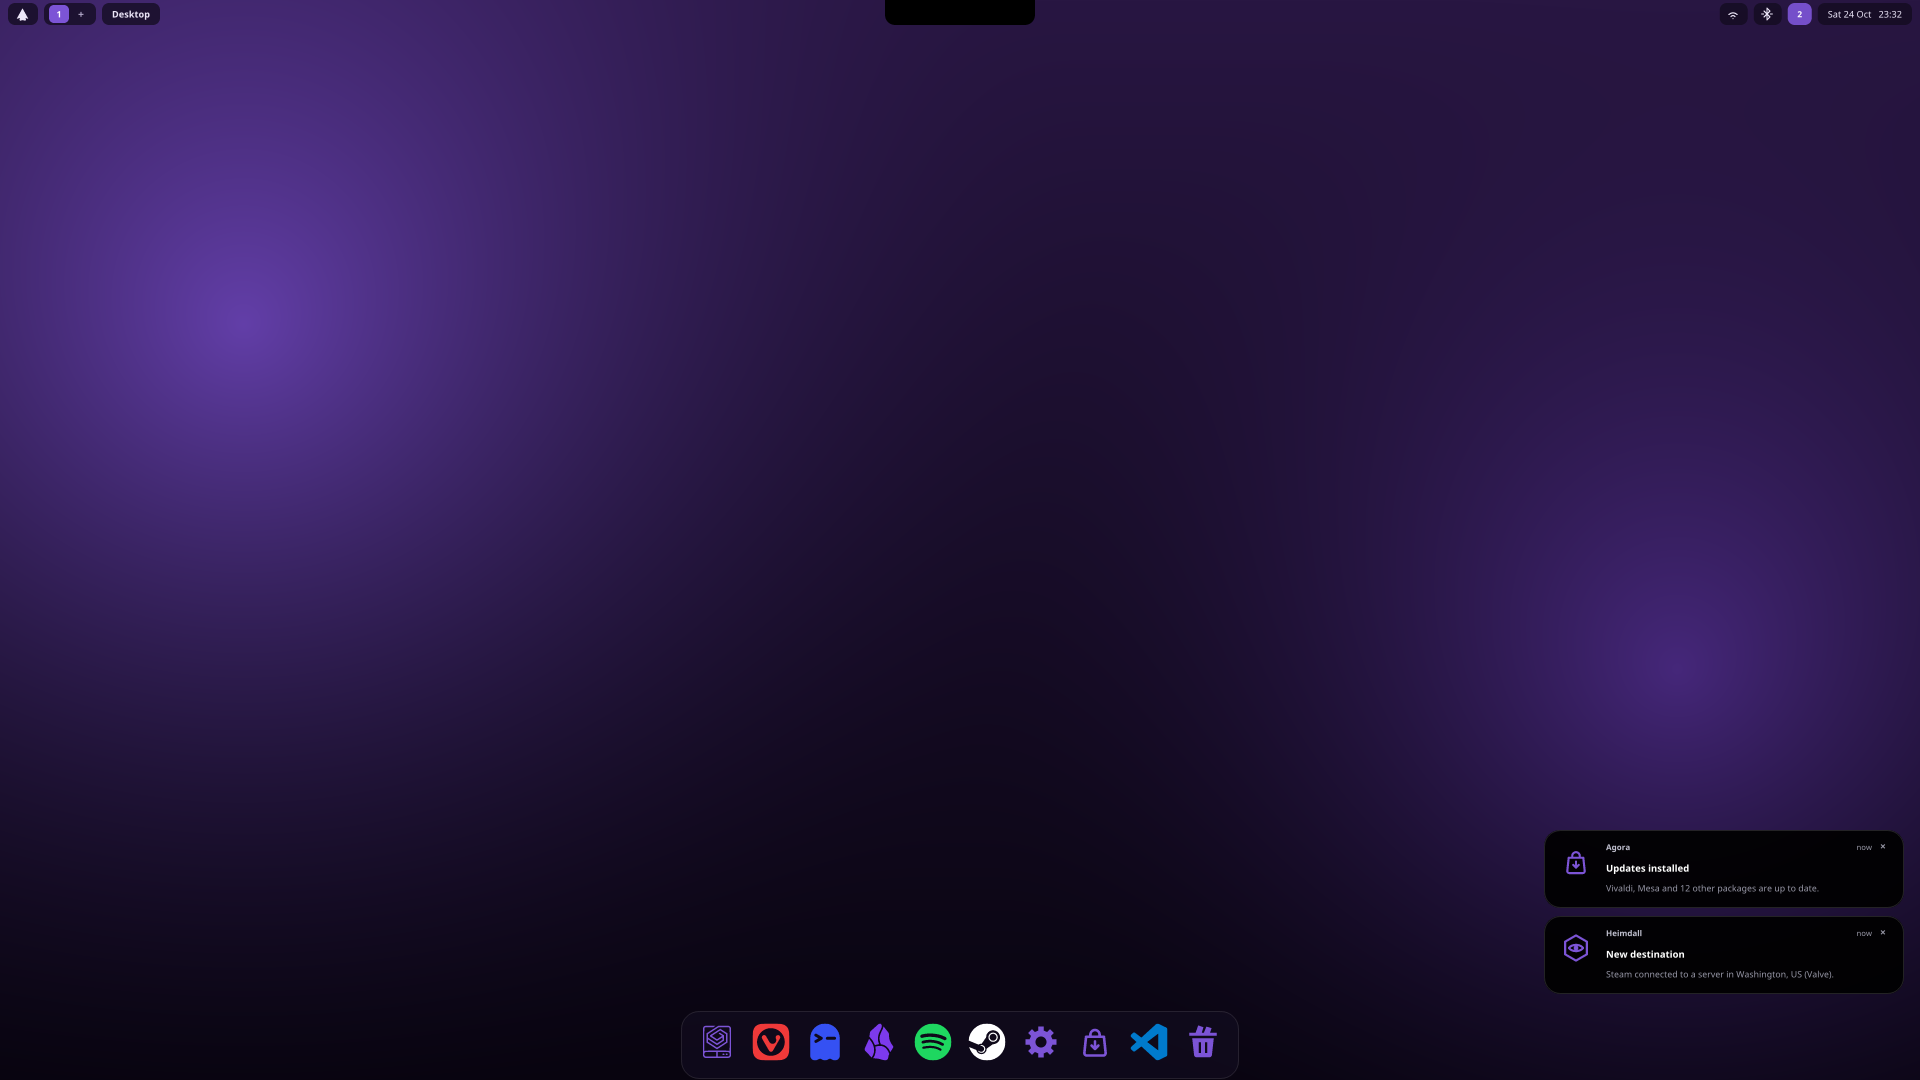
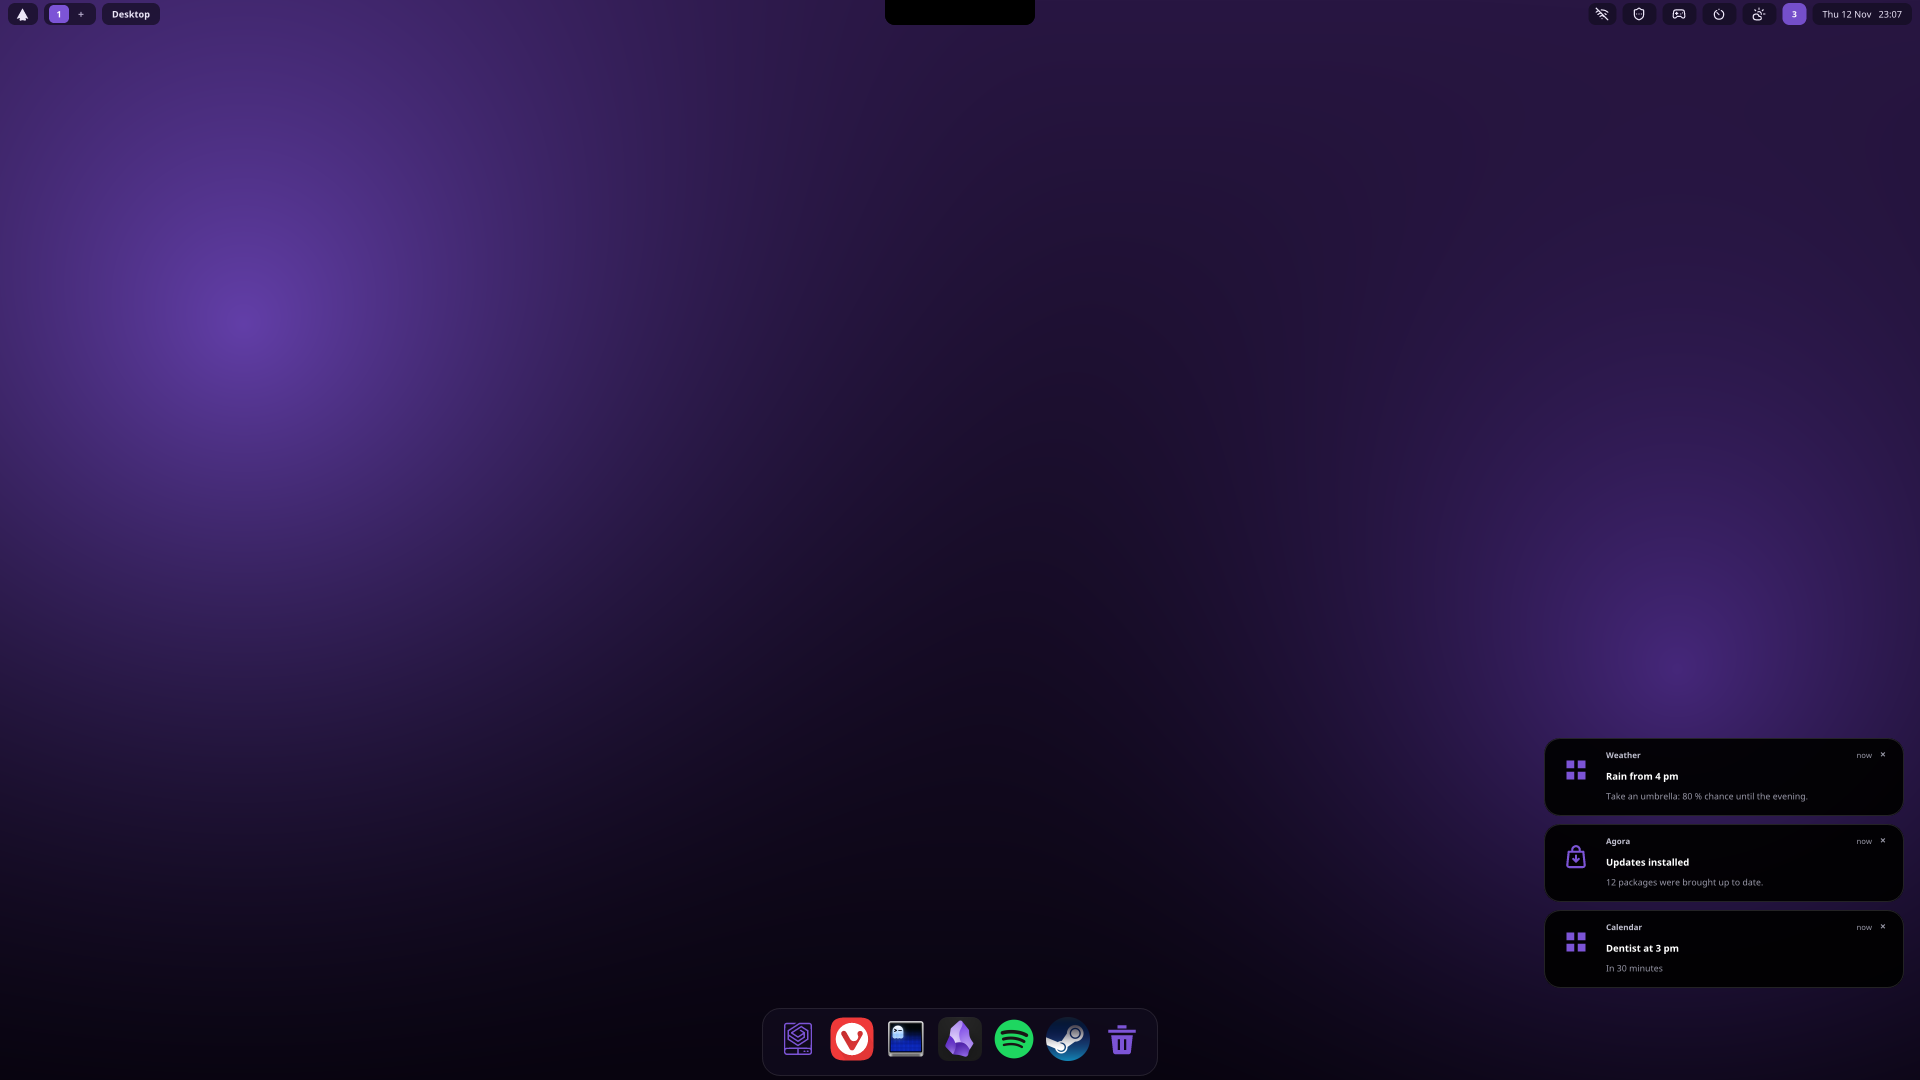
README: the desktop, installer and distress password pictures made again
From Yggdrasil's scripts/screenshots.sh on its headless compositor, with a
made-up computer and account: today's top bar and dock, the wallpaper, and
the Settings sidebar as it is now.

Changed region(s): [[0.7812, 0.6722, 1.0, 0.9167], [0.3438, 0.9167, 0.6562, 1.0], [0.8125, 0.0, 0.9688, 0.0306]]

diff --git a/README.md b/README.md
@@ -7,8 +7,10 @@ photo and video work, CAD, everyday browsing.
 
 ![The desktop: the top bar, the dock, and notification pop-ups at the bottom right](assets/screenshots/desktop.png)
 
-*The desktop: the top bar (start button, workspaces, the open app's name, network, Bluetooth, date and time), the dock, and
-notification pop-ups at the bottom right. The black tab at the top middle is Fylgja, the notch.*
+*The desktop: the top bar (start button, workspaces, the open app's name, the status icons, the notification count, date and
+time), the dock, and notification pop-ups at the bottom right. The black tab at the top middle is Fylgja, the notch. This picture,
+the installer's and the distress password's below are made with Yggdrasil's `scripts/screenshots.sh` on its headless compositor,
+with a made-up computer and account.*
 
 ![fastfetch on Labyrinth](assets/screenshots/fastfetch.png)
 
